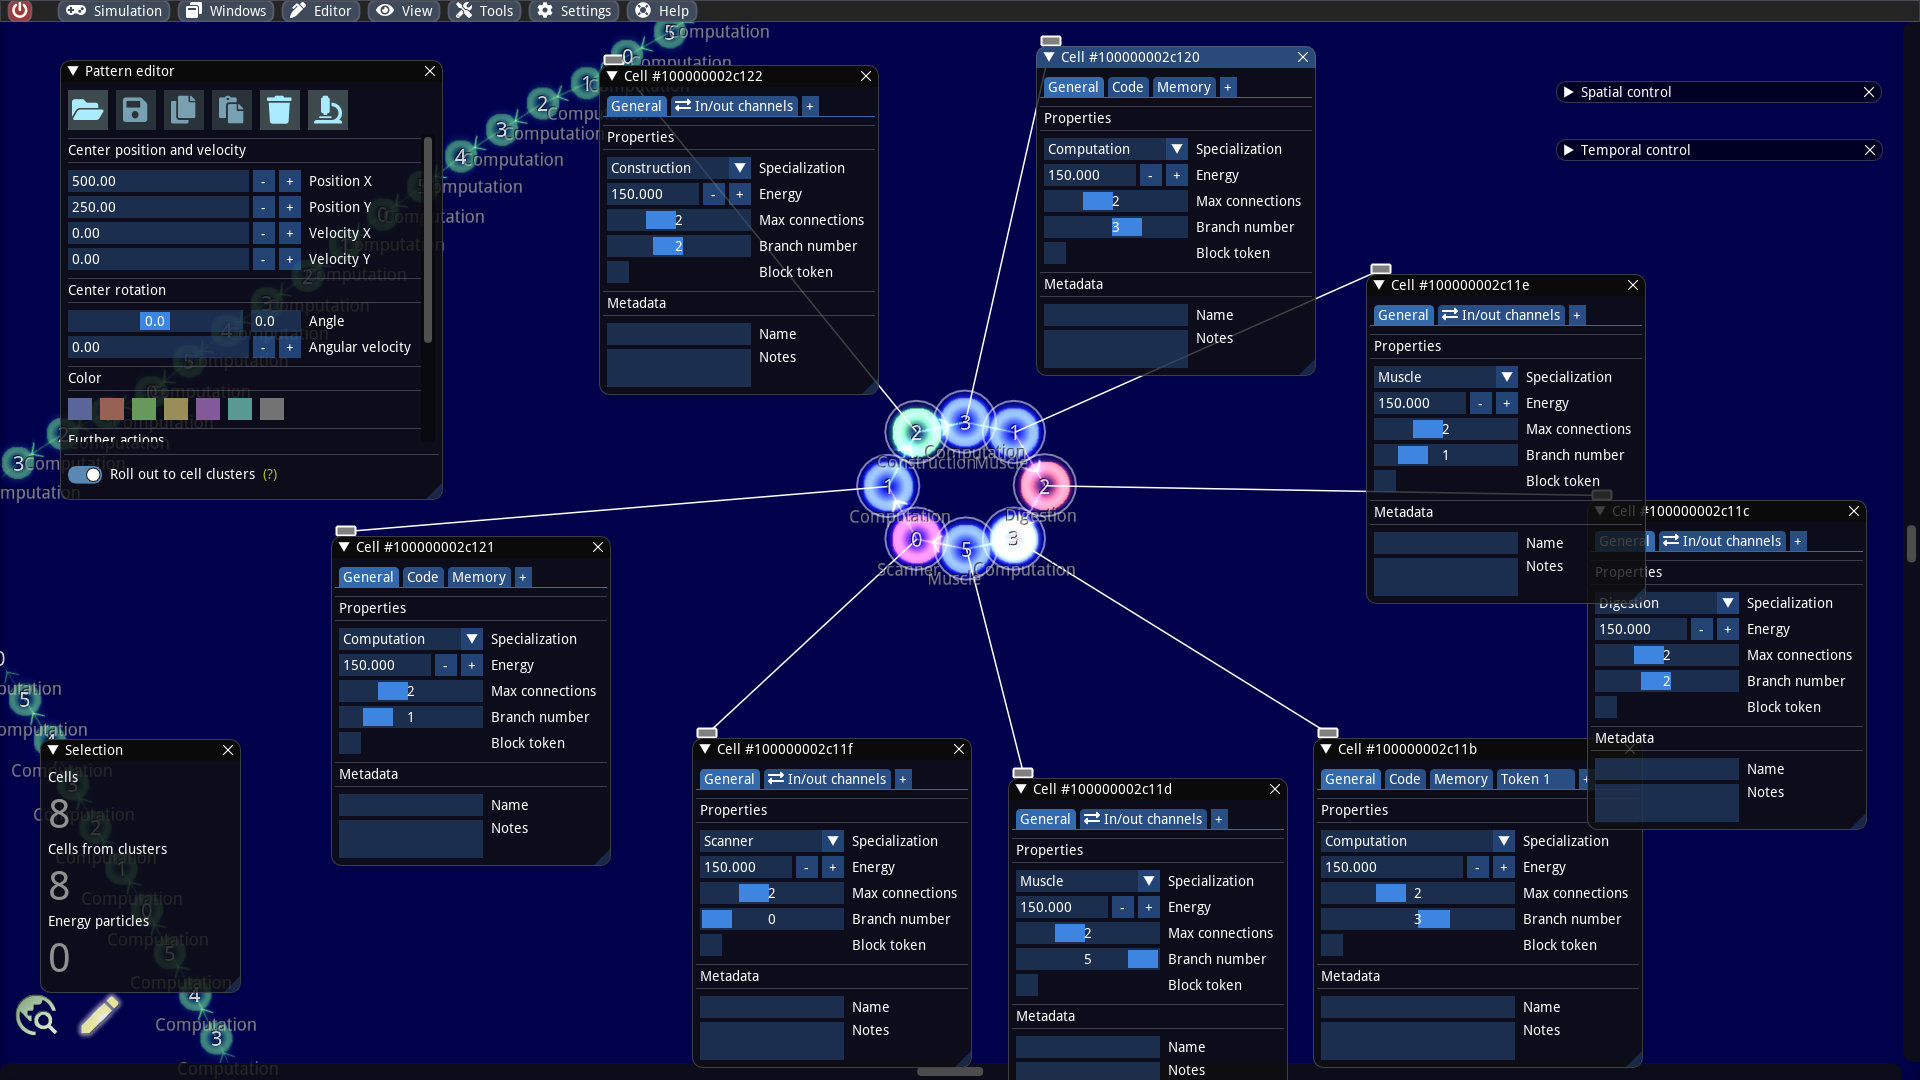
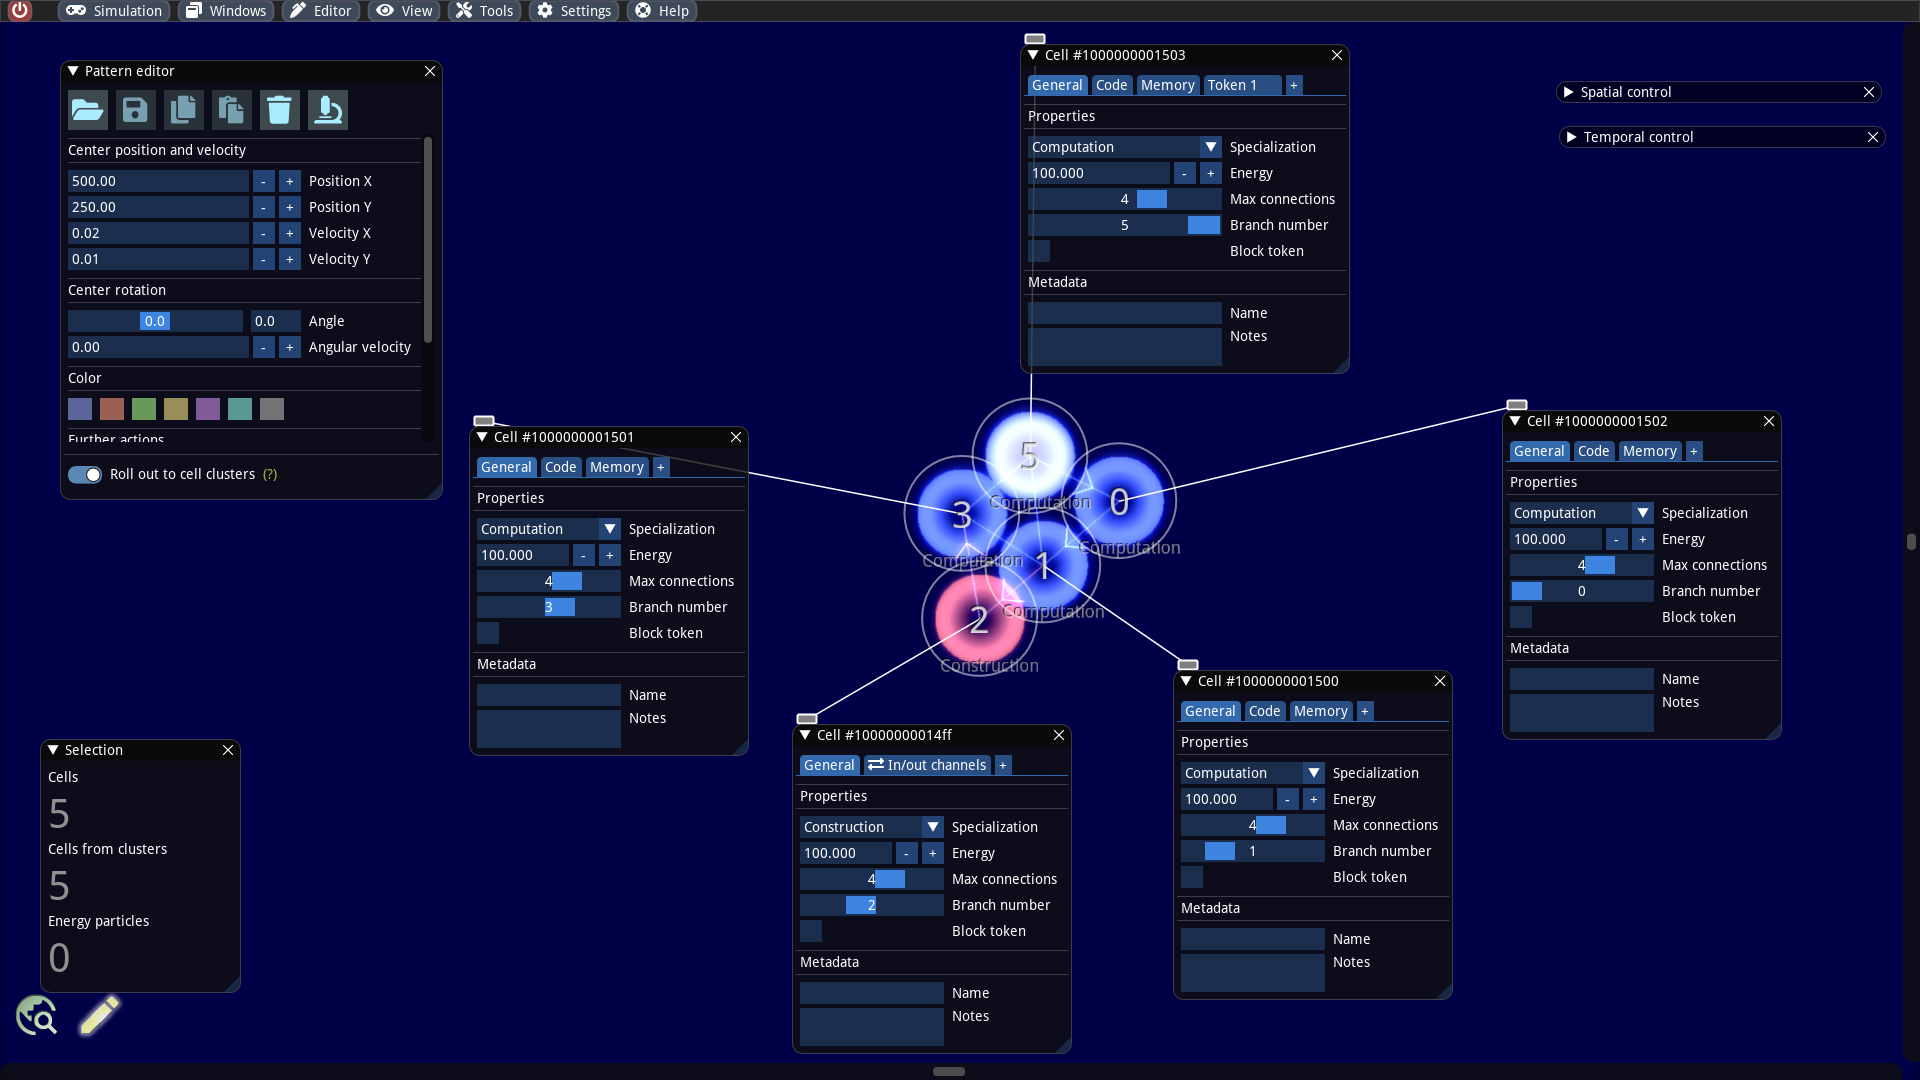
GitBook: [#147] No subject

diff --git a/getting-started/particle-editing.md b/getting-started/particle-editing.md
@@ -2,19 +2,19 @@
 
 #### Abstract
 
-It is possible to select any entity, manipulate their properties and memory, and get real-time updates during a running simulation. For this purpose, editing windows can be pinned to particles. We will make use of this feature by inspecting a self-replicating particle machine in more detail and perform specific changes.
+It is possible to select any entity, manipulate their properties and memory, and get real-time updates during a running simulation. For this purpose, editing windows can be pinned to particles. We will make use of this feature by inspecting a structure building particle machine in more detail and perform specific changes.
 
 ## Pin editing windows to cells
 
-For testing purposes we load the simulation file `./examples/simulations/evolution/Loops Evolved.sim`. It contains only one self-replicating cell cluster in the center and otherwise only passive structures that serve as food source. The self-replicating structure has a loop shape, can  move randomly, eat other particles to obtain energy from its environment and copy itself by inspecting its own structure to rebuild it. Can you find the little particle machine right away?
+We create a new simulation with the dimensions 1000 x 1000 and set the radiation strength and rigidity value to 0. Then, we open the pattern editor and load the example `/examples/patterns/builders/Spiral Builder.sim` into our world.
 
-![](../.gitbook/assets/loop.png)
+Our first goal is first to inspect the internals of the builder more detail. We zoom in, activate the  information overlay, select all cells of the cell cluster and click the tool button with the microscope icon in the _Pattern editor_ (or even faster: ALT + N). For each selected particle, a window is now pinned, which displays all internal properties and offers editing. We place the windows so that we can easily see the cells. In addition, the overlay information allows us to identify the so-called token branch numbers and cell specializations.
 
-Our first goal is first to inspect the internals of the loop in more detail. We zoom in, activate the editor together with the information overlay, select the entire loop and click the tool button with the microscope in the _Pattern editor_ (or even faster: ALT + N). For each selected particle, a window is now pinned, which displays all internal properties and offers editing. We place the windows so that we can easily see the cells. In addition, the overlay information allows us to identify the so-called token branch numbers and cell specializations.
+The cell that glows white possesses a token. By default, tokens always jump in the next time step to connected cells with the next higher token branch number with respect to a modulo arithmetic. But it is possible to bypass this mechanism and let the token jump to another cells. This trick is also used here and necessary, because the builder consists only of 5 cells and we have 6 different token branch numbers. We will discuss this in more detail in a later article.
 
-The cell that glows white possesses a token. By default tokens always jump in the next time step to the cells with the next higher token branch number with respect to a modulo arithmetic. But it is possible to bypass this mechanism and let the token jump to another cells. This trick is also used here and necessary, because the loop consists of 8 cells and we only have 6 different token branch numbers. We will discuss this in more detail in a later article.
+![Inspecting a machine which build spiral structures](<../.gitbook/assets/particle editors.png>)
 
-![](<../.gitbook/assets/particle editors.png>)
+
 
 ## Autotracking and live updates&#x20;
 
